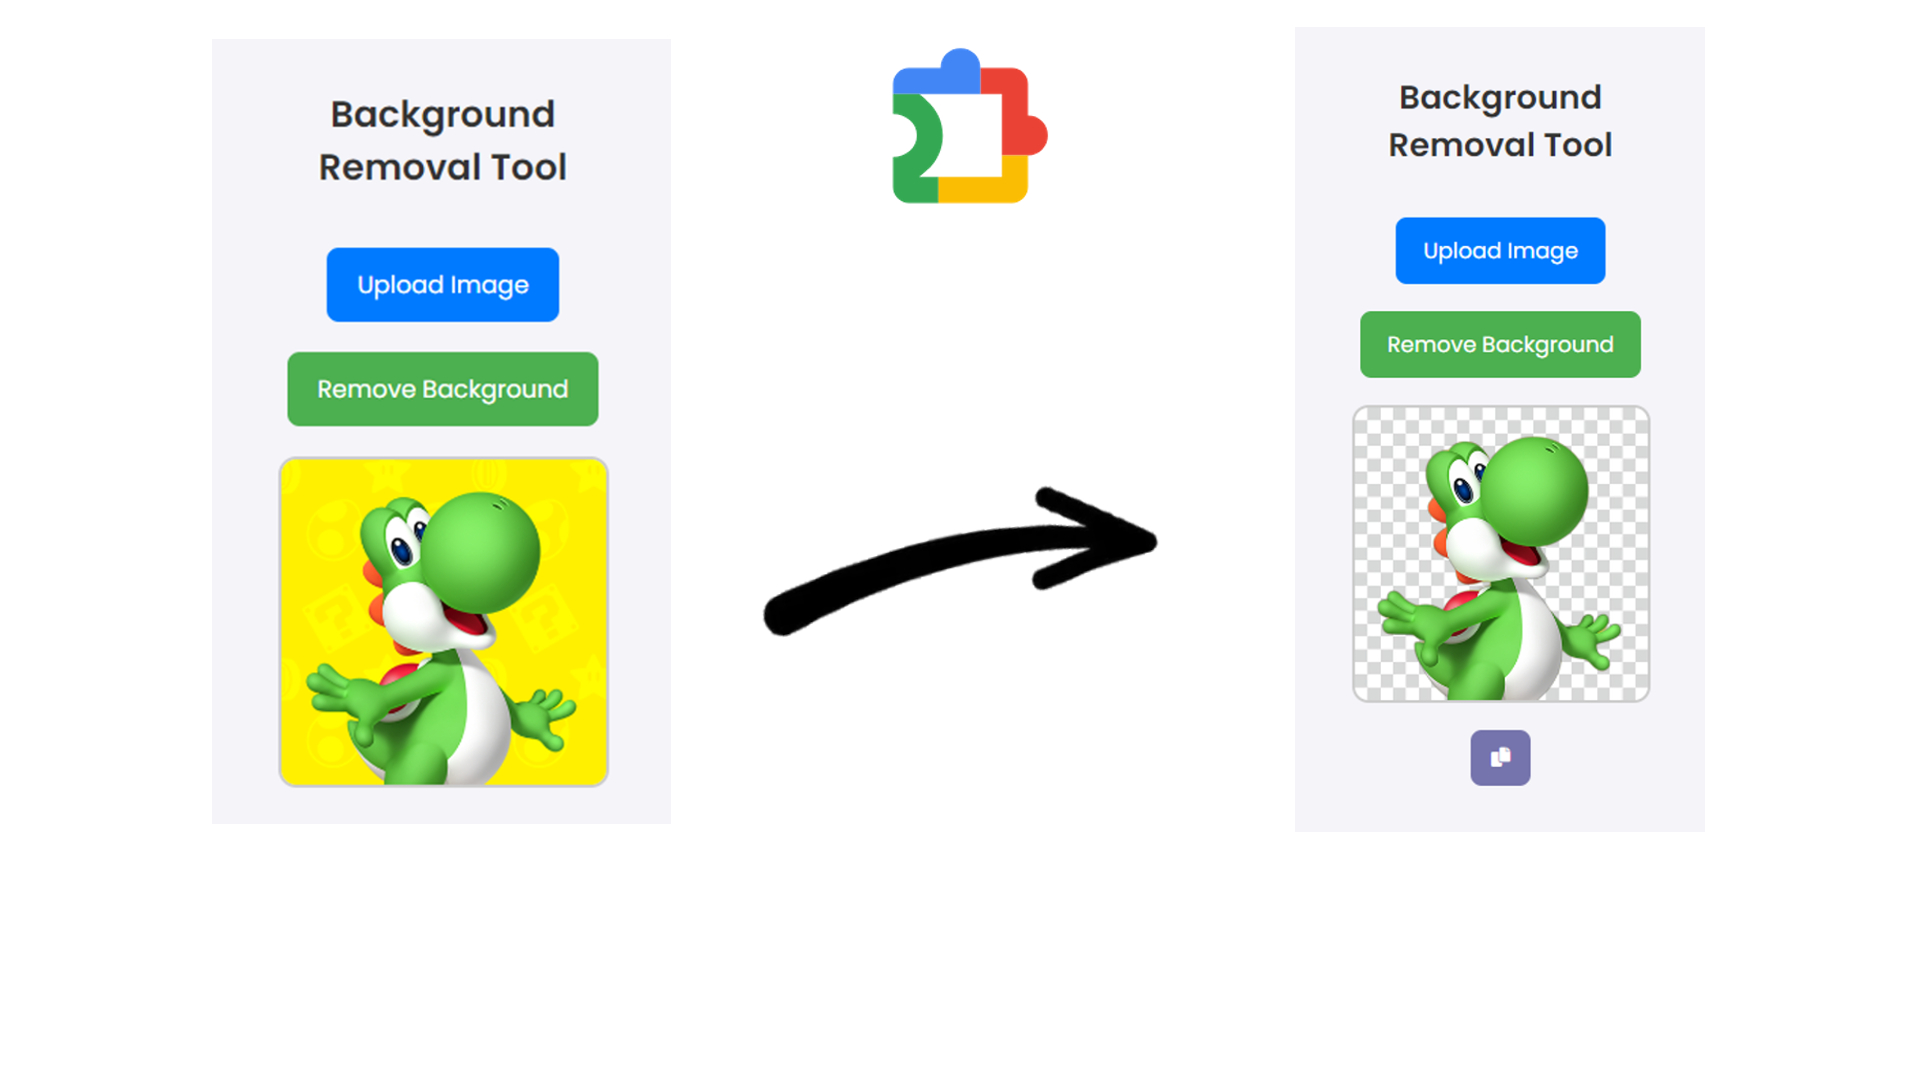
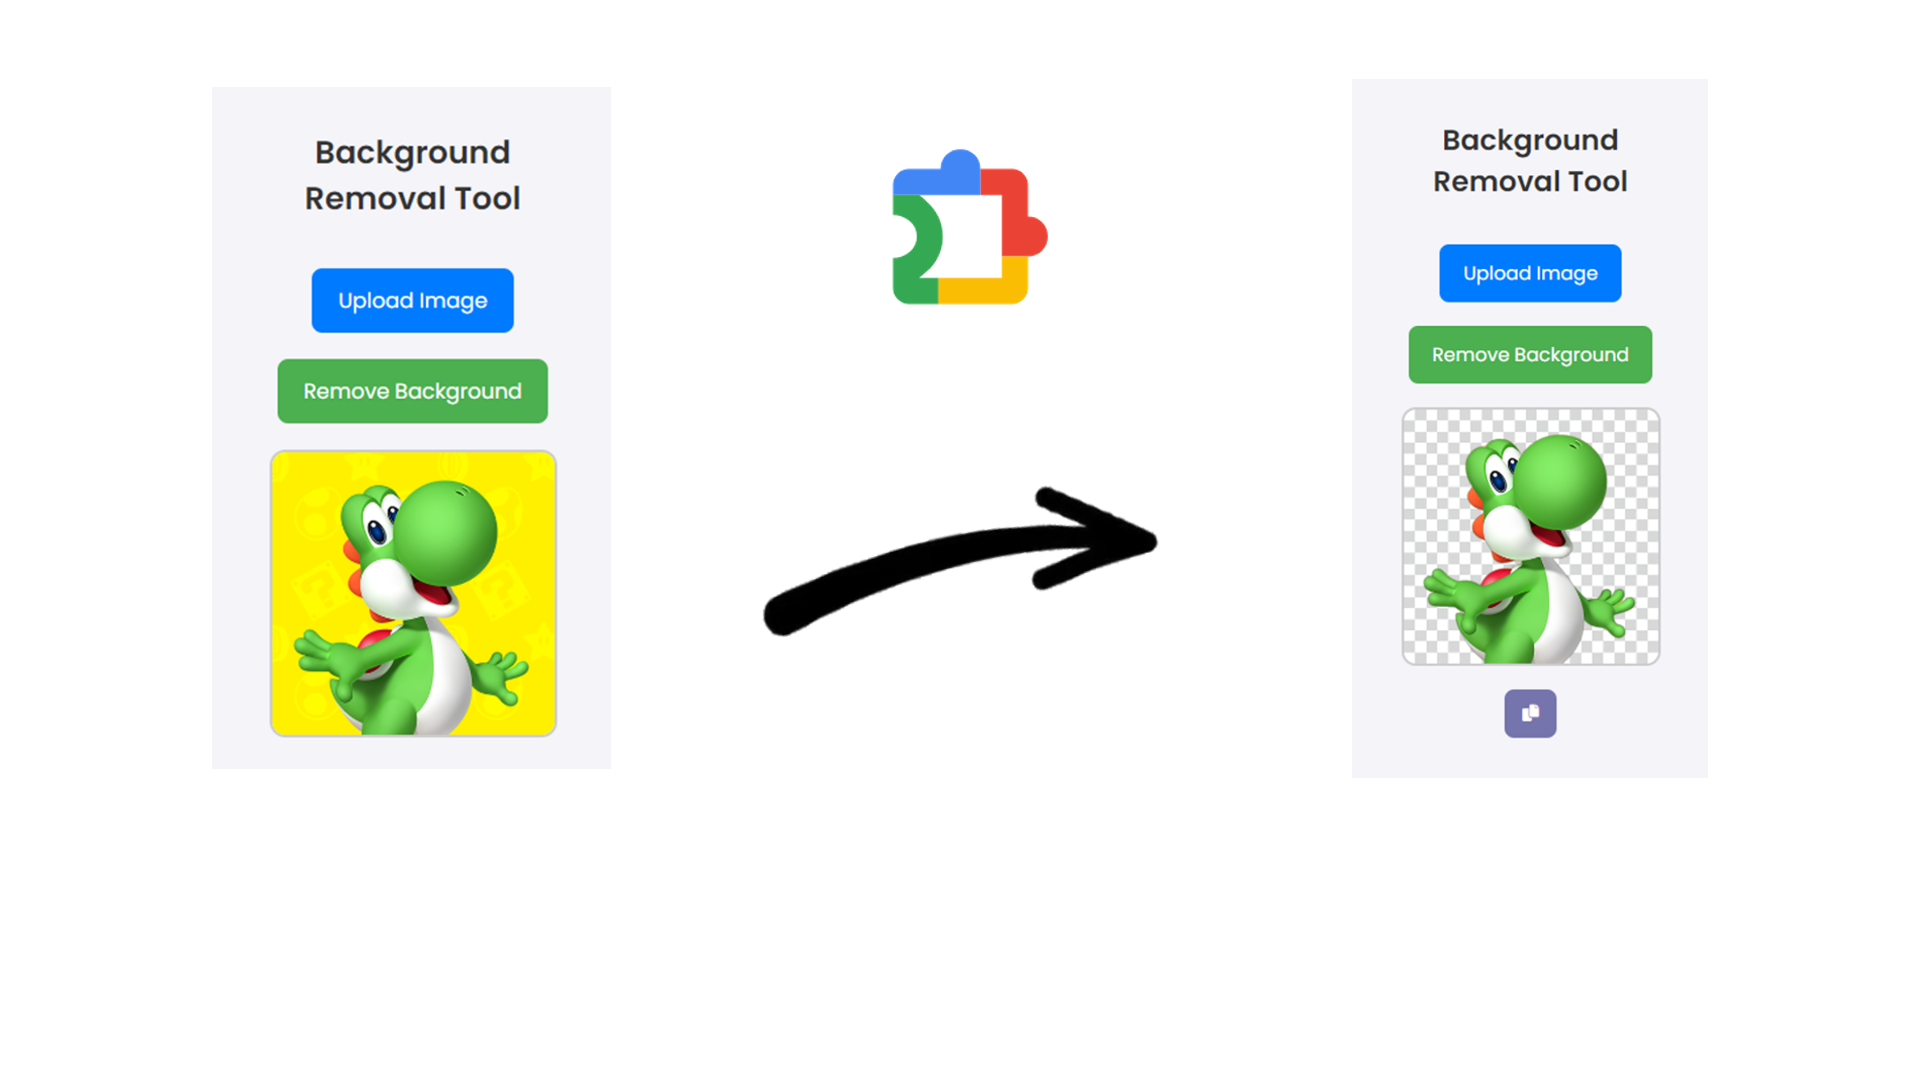
added link to google chrome extension project

Changed region(s): [[0.125, 0.0917, 0.3438, 0.7333], [0.6875, 0.0611, 0.875, 0.7333], [0.4375, 0.0306, 0.5625, 0.3056]]

diff --git a/index.html b/index.html
@@ -37,9 +37,9 @@
                 </div>
                 <div class="carousel-inner">
                     <div class="carousel-item active">
-                        <img src="static/imgs/bg_remover2.jpg" class="d-block w-100">
+                        <img src="static/imgs/bg_remover.jpg" class="d-block w-100">
                         <div class="carousel-caption d-none d-md-block">
-                            <span class="project-name"><h5>Background Remover Google Extension</h5></span>
+                            <a href="https://chromewebstore.google.com/detail/background-remover/pcnmjbdlmgeneeajpoifebcfgcilnpog" target="_blank" class="link-underline-dark link-underline-opacity-75-hover"><span class="project-name"><h5>Background Remover Google Extension</h5></span></a>
                         </div>
                     </div>
                     <div class="carousel-item">

diff --git a/static/styles.css b/static/styles.css
@@ -87,7 +87,6 @@ body::before {
 .ucf:hover {
     color: rgb(201, 201, 201);
     text-shadow: 0px 0px 0px rgba(0, 0, 0, 0); 
-
 }
 
 
@@ -164,7 +163,16 @@ body::before {
 
 .project-name {
     color: black;
+
 }
+
+.project-name:hover {
+    color: rgb(49, 49, 49);
+}
+
+
+
+
 
 .carousel-indicators button {
     filter: invert(0%) sepia(100%) saturate(1000%) hue-rotate(0deg) brightness(0%) contrast(100%);

diff --git a/script.js b/script.js
@@ -1,5 +1,5 @@
 document.addEventListener('DOMContentLoaded', function() {
-    const words = ["student", "developer", "problem solver", "dreamer", "engineer", "great guy", "innovator", "gamer"];
+    const words = ["student", "developer", "problem solver", "dreamer", "software engineer", "great guy", "leader", "gamer"];
     let i = 0;
     let timer;
 
